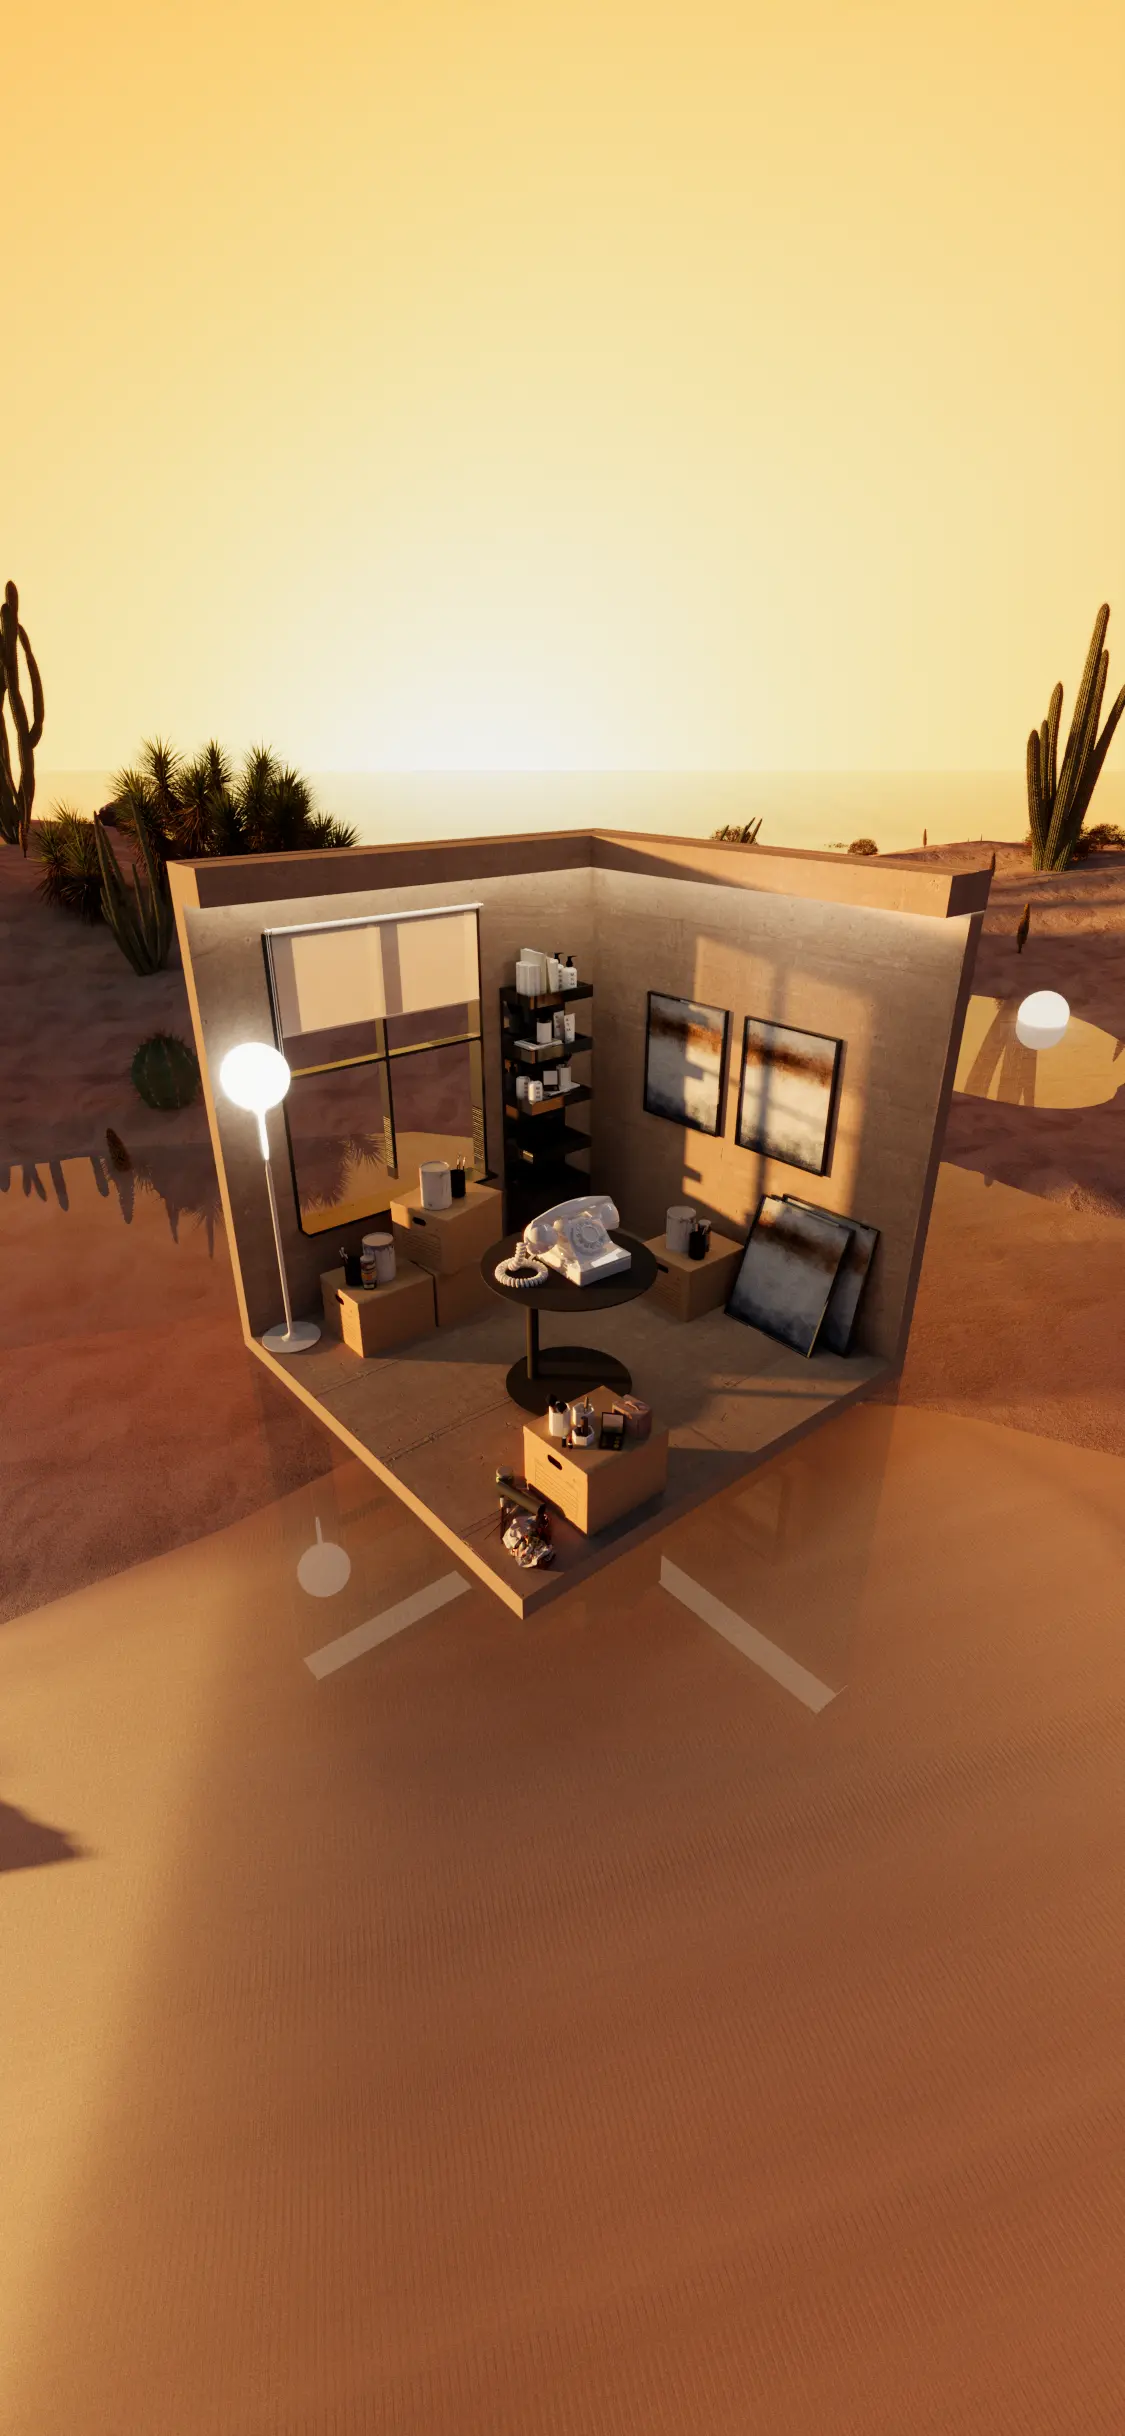
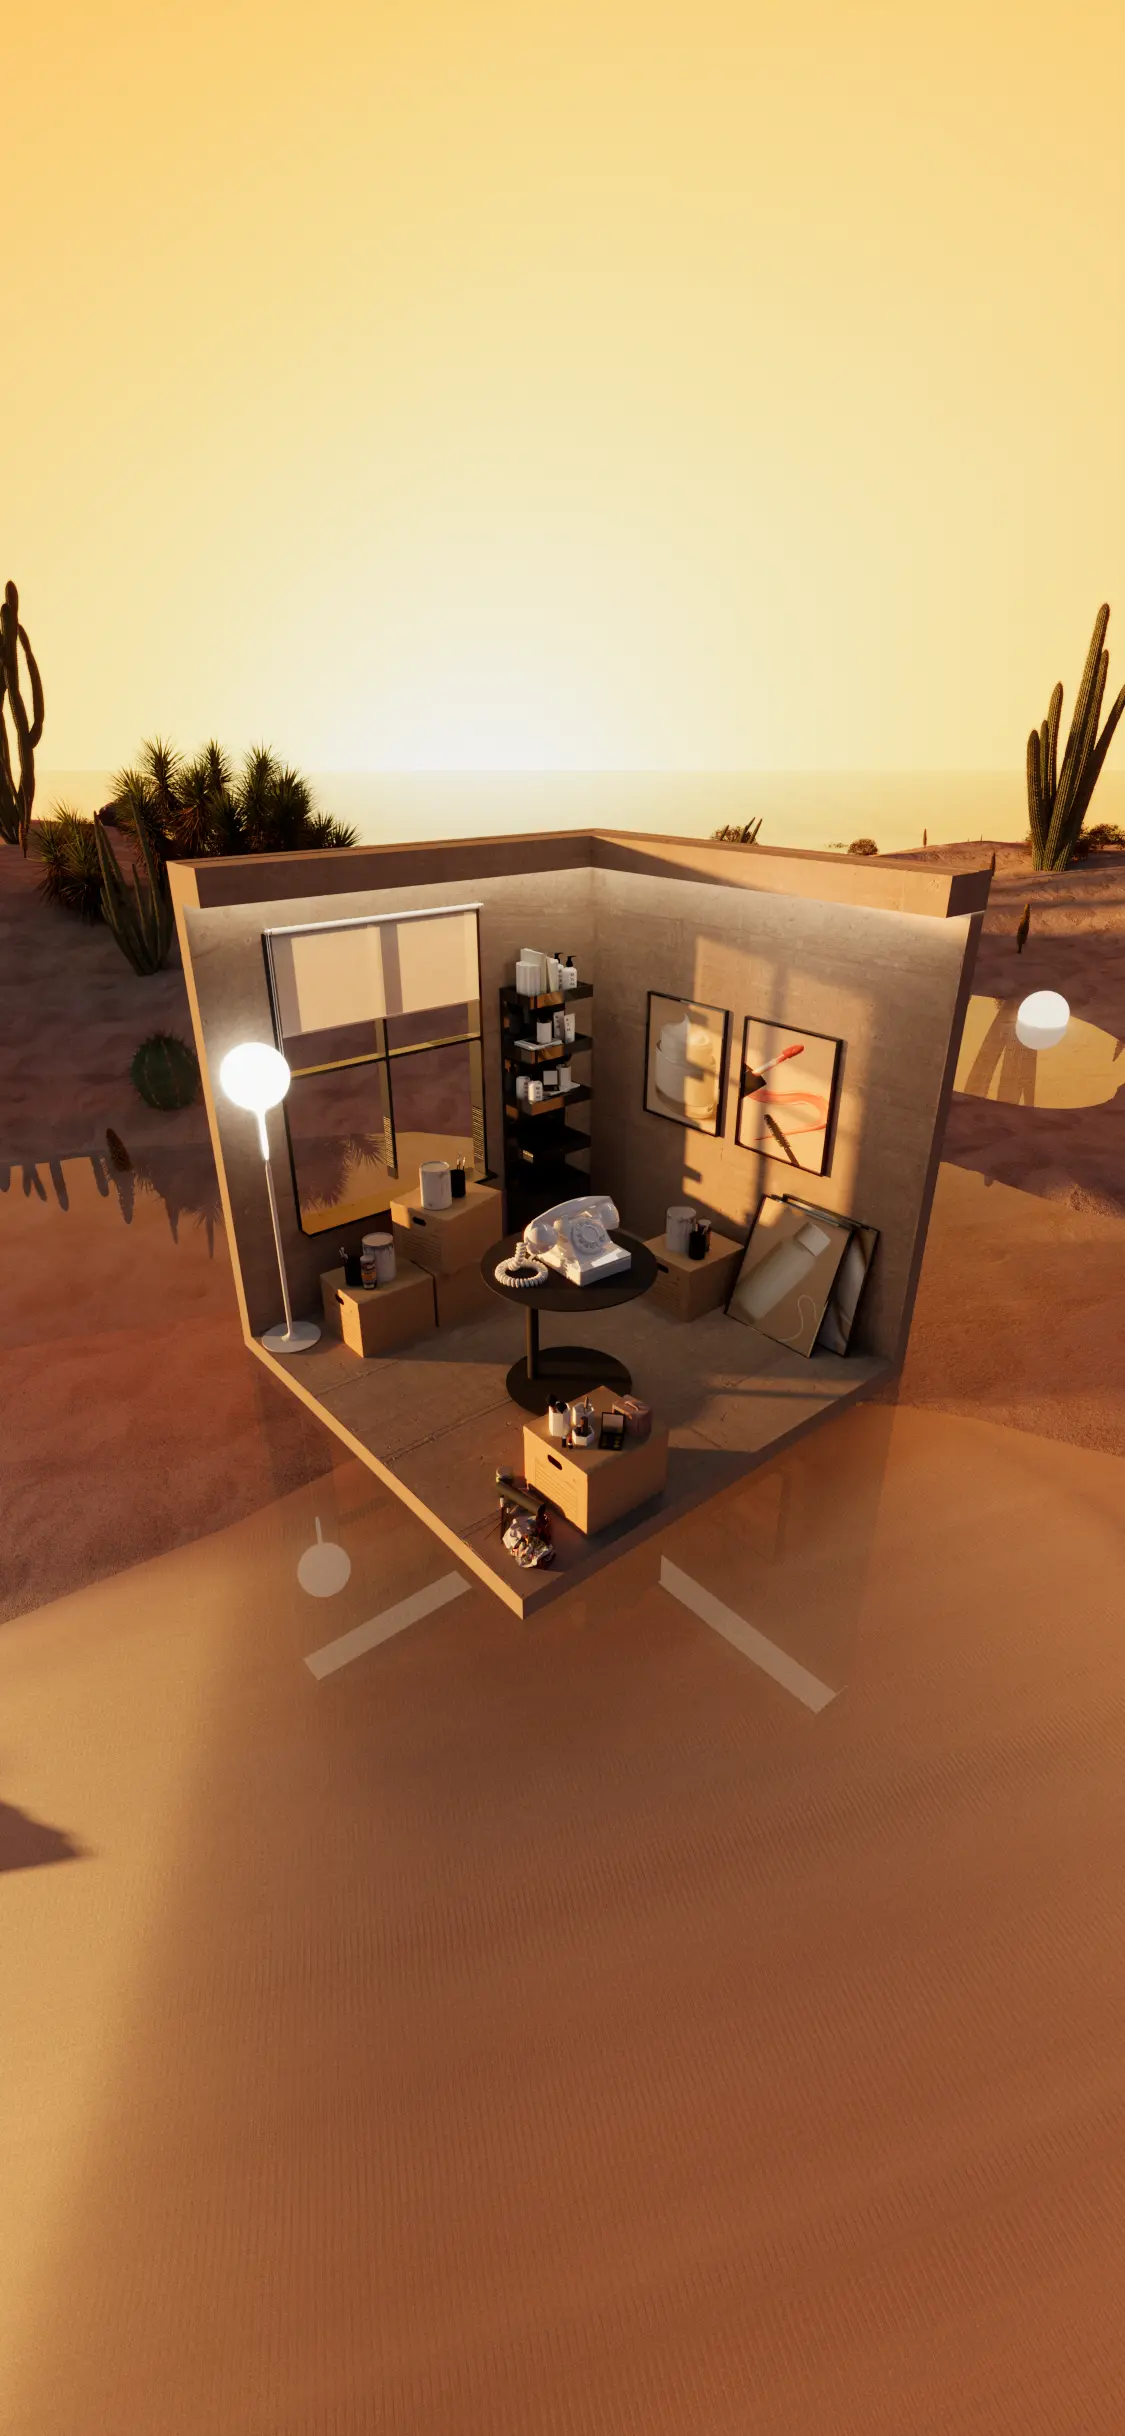
replaced mobile bg images

Changed region(s): [[0.56, 0.4056, 0.7778, 0.5616], [0.4667, 0.4056, 0.4978, 0.4368]]

diff --git a/src/app/beauty-icons/page.tsx b/src/app/beauty-icons/page.tsx
@@ -5,7 +5,7 @@ import Link from 'next/link';
 import WideImage from '../../assets/images/field-far.png';
 import WideImageMobile from '../../assets/images/field-far-mobile.webp';
 import OverheadImage from '../../assets/images/field-aerial.png';
-import OverheadImageMobile from '../../assets/images/field-aerial-mobile.webp';
+import OverheadImageMobile from '../../assets/images/field-aerial-mobile-2.webp';
 import { useRouter } from 'next/navigation';
 import './styles/index.css';
 import { motion } from 'framer-motion';
